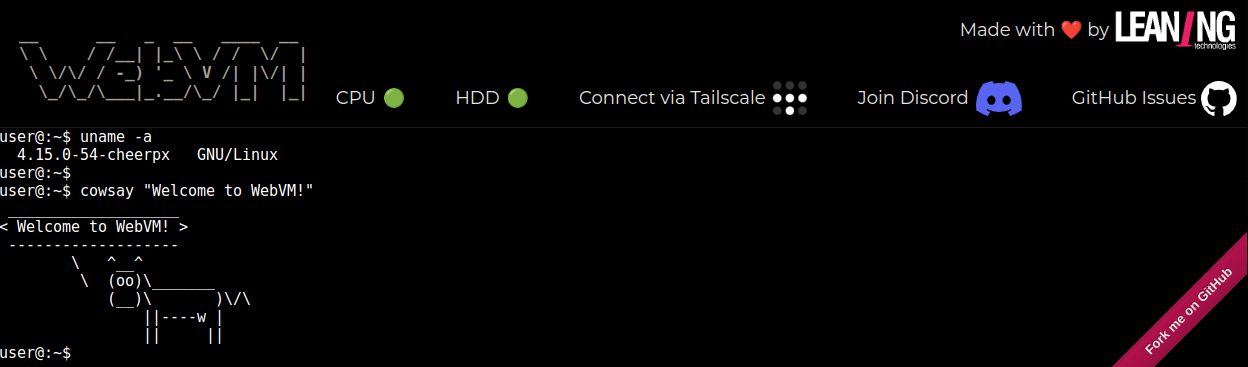
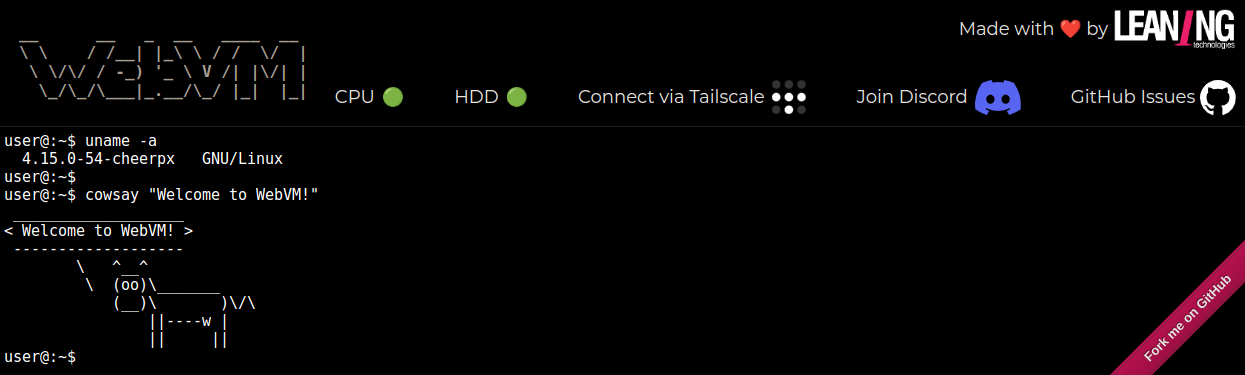
updated /assets/welcome_to_WebVM_slim.png

diff --git a/README.md b/README.md
@@ -2,7 +2,7 @@
 
 This repository hosts the source code for [https://webvm.io](https://webvm.io), a Linux virtual machine that runs in your browser.
 
-<img src="assets/welcome_to_WebVM_slim.png" width="100%">
+<img src="assets/welcome_to_WebVM_slim.png" width="95%">
 
 WebVM is a server-less virtual environment running fully client-side in HTML5/WebAssembly. It's designed to be Linux ABI-compatible. It runs an unmodified Debian distribution including many native development toolchains.
 
